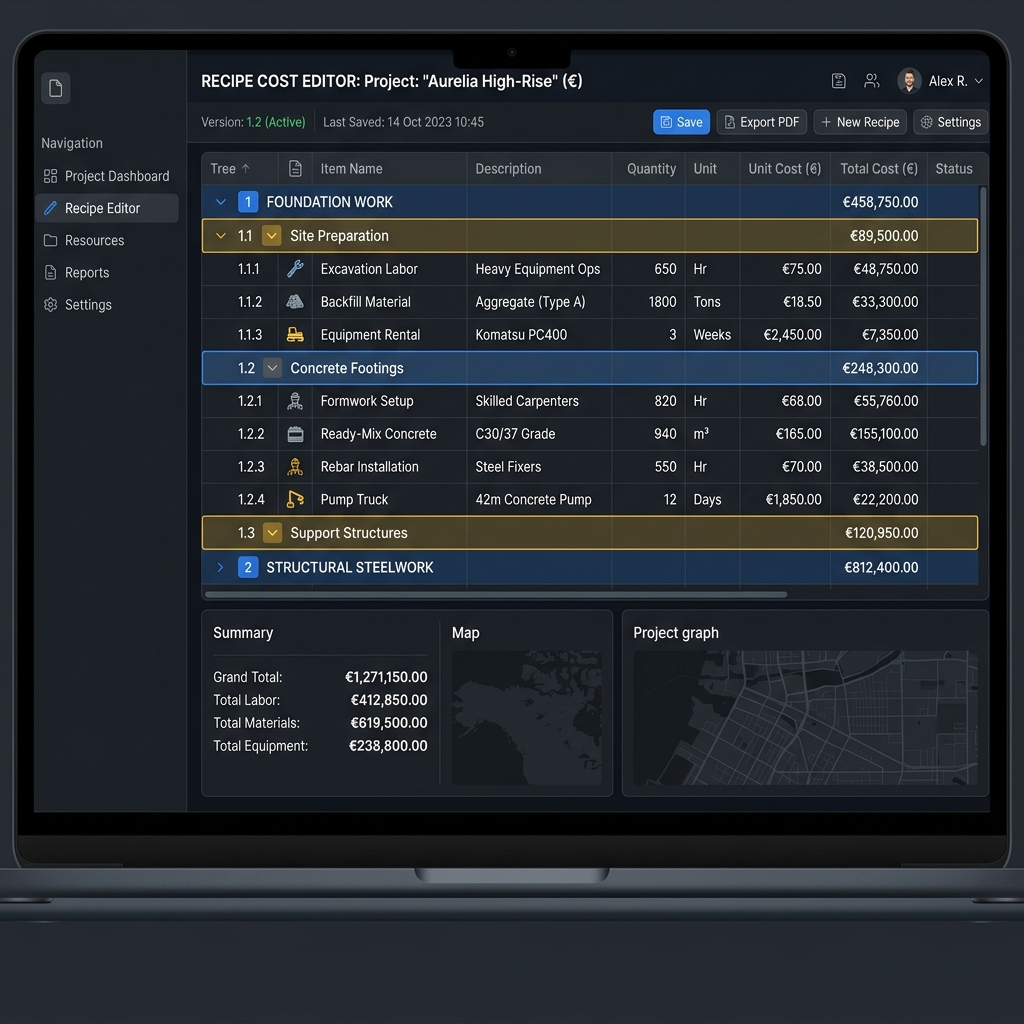
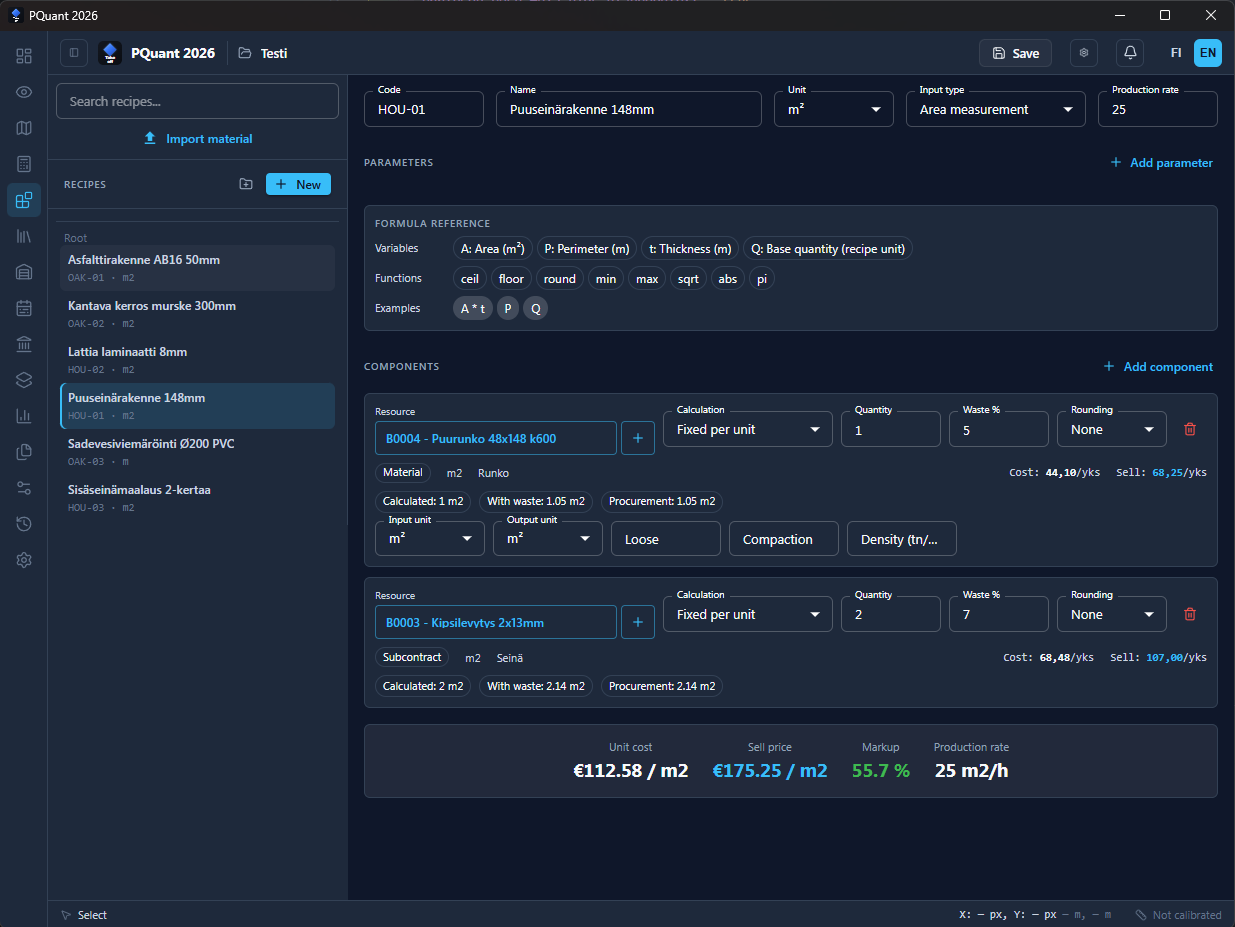
feat: add support for payment milestones, imperial units, and associated UI documentation

diff --git a/docs.html b/docs.html
@@ -41,13 +41,15 @@
     <aside class="docs-sidebar">
       <div class="docs-sidebar-title">User Guide</div>
       <nav class="docs-sidebar-menu">
-        <a href="#intro" class="docs-sidebar-link active">1. Intro & Installation</a>
+        <a href="#intro" class="docs-sidebar-link active">1. Intro &amp; Installation</a>
         <a href="#calibration" class="docs-sidebar-link">2. Scale Calibration</a>
-        <a href="#measure" class="docs-sidebar-link">3. Measuring & Snapping</a>
+        <a href="#measure" class="docs-sidebar-link">3. Measuring &amp; Snapping</a>
         <a href="#search" class="docs-sidebar-link">4. PDF Text Search</a>
-        <a href="#recipes" class="docs-sidebar-link">5. Recipe Engine & Formulas</a>
+        <a href="#recipes" class="docs-sidebar-link">5. Recipe Engine &amp; Formulas</a>
         <a href="#excel" class="docs-sidebar-link">6. Exporting to Excel</a>
         <a href="#collab" class="docs-sidebar-link">7. Collaboration &amp; Cloud Sync</a>
+        <a href="#milestones" class="docs-sidebar-link">8. Payment Milestones</a>
+        <a href="#settings" class="docs-sidebar-link">9. System Settings &amp; Units</a>
       </nav>
     </aside>
 
@@ -215,6 +217,53 @@
           <li><strong>Automated Project Checklist:</strong> The system automatically scans the database for missing fields, warning you about uncalibrated viewports, missing contract terms, or approaching bid deadlines.</li>
           <li><strong>Risk Registry:</strong> Log, categorize, and prioritize soil, contract, and schedule risks (Low, Medium, High) directly in the project file, ensuring the team prices the estimate with a full view of potential hazards.</li>
         </ul>
+      </section>
+
+      <!-- Payment Milestones -->
+      <section id="milestones" class="docs-section">
+        <h2>8. Payment Milestones &amp; Schedules</h2>
+        <p>After performing your quantity takeoff and creating a cost estimate, Takeoff allows you to plan and structure your contract payment milestones. This makes cash flow management straightforward and ties billable stages to actual project progress.</p>
+        
+        <h3>Defining &amp; Managing Milestones</h3>
+        <p>You can create and manage payment milestones directly within the Payment Schedule dashboard:</p>
+        <ul>
+          <li><strong>Name &amp; Description:</strong> Give each milestone a clear title (e.g., <i>"Foundations Poured"</i> or <i>"Framing Complete"</i>).</li>
+          <li><strong>Value or Percentage:</strong> Set the milestone's value either in currency or as a percentage of the total project contract. The software computes the corresponding amounts dynamically.</li>
+          <li><strong>Link to Takeoff Recipes:</strong> Bind milestones to specific estimated items, allowing milestone values to update automatically as your quantities and pricing refine.</li>
+        </ul>
+
+        <div class="feature-step-media" style="margin: 2rem 0;">
+          <img src="assets/Payment_milestones.png" alt="Payment Milestones Screen" style="width: 100%; border-radius: 8px;">
+        </div>
+
+        <h3>Progress Tracking &amp; Billing</h3>
+        <p>As work finishes on-site, mark the corresponding milestone as completed. This maintains an audit log of what has been invoiced and what remains, preventing payment disputes between clients and contractors.</p>
+      </section>
+
+      <!-- System Settings & Units -->
+      <section id="settings" class="docs-section">
+        <h2>9. System Settings &amp; Imperial Units</h2>
+        <p>Takeoff is a highly flexible estimator designed for both local work and international procurement. From the settings pane, you can customize your workspace rules to suit the project requirements.</p>
+
+        <h3>Unit System Selection (Metric vs. Imperial)</h3>
+        <p>If you estimate plans drawn in feet/inches or work for North American clients, toggle your project units to Imperial:</p>
+        <ul>
+          <li><strong>Metric Units:</strong> Meters (m), square meters (m²), cubic meters (m³), and millimeters (mm).</li>
+          <li><strong>Imperial Units:</strong> Feet (ft), inches (in), yards (yd), square feet (sq ft), and cubic feet (cu ft).</li>
+          <li><strong>Automatic Unit Conversion:</strong> Switching the unit system converts all previously drawn geometric shapes automatically. There is no need to redraw any polylines or polygons.</li>
+        </ul>
+
+        <div class="feature-step-media-grid" style="margin: 2rem 0;">
+          <div class="sub-media">
+            <img src="assets/settings.png" alt="Settings Window Screenshot">
+          </div>
+          <div class="sub-media">
+            <img src="assets/quantities.png" alt="Imperial Quantities Screenshot">
+          </div>
+        </div>
+
+        <h3>Decimal Precision &amp; Rounding</h3>
+        <p>Configure how many decimal places to display in your measurements. You can set independent rounding rules for lengths, areas, and volumes, ensuring your exported Excel spreadsheets stay clean and professional.</p>
       </section>
     </main>
   </div>

diff --git a/ohjeet.html b/ohjeet.html
@@ -41,13 +41,15 @@
     <aside class="docs-sidebar">
       <div class="docs-sidebar-title">Käyttöopas</div>
       <nav class="docs-sidebar-menu">
-        <a href="#johdanto" class="docs-sidebar-link active">1. Johdanto & Asennus</a>
+        <a href="#johdanto" class="docs-sidebar-link active">1. Johdanto &amp; Asennus</a>
         <a href="#kalibrointi" class="docs-sidebar-link">2. Mittakaavan kalibrointi</a>
-        <a href="#mittaus" class="docs-sidebar-link">3. Mittaus & Snappaus</a>
+        <a href="#mittaus" class="docs-sidebar-link">3. Mittaus &amp; Snappaus</a>
         <a href="#haku" class="docs-sidebar-link">4. PDF-tekstihaku</a>
-        <a href="#reseptit" class="docs-sidebar-link">5. Reseptimoottori & Kaavat</a>
+        <a href="#reseptit" class="docs-sidebar-link">5. Reseptimoottori &amp; Kaavat</a>
         <a href="#excel" class="docs-sidebar-link">6. Vienti Exceliin</a>
         <a href="#tiimityo" class="docs-sidebar-link">7. Tiimityö &amp; Pilvisynkronointi</a>
+        <a href="#maksuerat" class="docs-sidebar-link">8. Maksuerät &amp; Maksuerätaulukko</a>
+        <a href="#asetukset" class="docs-sidebar-link">9. Järjestelmäasetukset &amp; Yksiköt</a>
       </nav>
     </aside>
 
@@ -216,6 +218,53 @@
           <li><strong>Automaattinen tarkastuslista (Checklist):</strong> Järjestelmä käy projektin tiedot taustalla läpi ja varoittaa puuttuvista tiedoista (kuten kalibroimattomat piirustukset, puuttuvat sopimustiedot tai tarjouspyynnön umpeutuvat määräajat).</li>
           <li><strong>Riskirekisteri (Risk Registry):</strong> Voit kirjata ja luokittelua projektiin liittyvät maaperä-, sopimus- ja aikatauluriskit suoraan ohjelmaan vakavuustasoilla (Low, Medium, High). Tämä auttaa tiimiä varautumaan riskeihin kustannusarvion laadinnassa.</li>
         </ul>
+      </section>
+
+      <!-- Maksuerät -->
+      <section id="maksuerat" class="docs-section">
+        <h2>8. Maksuerät &amp; Maksuerätaulukko</h2>
+        <p>Määrälaskennan ja kustannusarvion luomisen jälkeen Takeoff mahdollistaa urakan maksuerätaulukon (Payment Milestones) automaattisen tai manuaalisen suunnittelun. Tämä helpottaa rahoituksen ja kassavirran hallintaa sekä maksujen sitomista projektin todellisiin vaiheisiin.</p>
+        
+        <h3>Maksuerien määrittäminen ja hallinta</h3>
+        <p>Voit luoda projekteille maksueriä suoraan maksuerätaulukkonäkymässä:</p>
+        <ul>
+          <li><strong>Nimi ja kuvaus:</strong> Anna maksuerälle selkeä nimi (esim. <i>"Perustukset valettu"</i> tai <i>"Runkovaihe valmis"</i>).</li>
+          <li><strong>Summa tai prosenttiosuus:</strong> Määritä maksuerän arvo joko suoraan euroina tai prosenttiosuutena projektin kokonaiskustannuksista. Ohjelma laskee vastaavat arvot lennosta.</li>
+          <li><strong>Maksupostien sitominen:</strong> Maksuerät voidaan sitoa tiettyihin suoritettuihin määriin tai resepteihin, jolloin niiden arvo päivittyy automaattisesti, kun arvio tarkentuu.</li>
+        </ul>
+
+        <div class="feature-step-media" style="margin: 2rem 0;">
+          <img src="assets/Payment_milestones.png" alt="Payment Milestones Screen" style="width: 100%; border-radius: 8px;">
+        </div>
+
+        <h3>Edistymisen seuranta ja laskutus</h3>
+        <p>Kun työvaihe valmistuu työmaalla, vastaava maksuerä voidaan merkitä valmiiksi. Tämä luo selkeän historian siitä, mitä on laskutettu ja mitä on vielä jäljellä, mikä ehkäisee epäselvyyksiä tilaajan ja urakoitsijan välillä.</p>
+      </section>
+
+      <!-- Asetukset ja mittayksiköt -->
+      <section id="asetukset" class="docs-section">
+        <h2>9. Järjestelmäasetukset &amp; Imperial-yksiköt</h2>
+        <p>Takeoff on joustava työkalu, joka soveltuu sekä kotimaisiin että kansainvälisiin projekteihin. Ohjelman asetuksista voit mukauttaa laskentaympäristön juuri omiin tarpeisiisi sopivaksi.</p>
+
+        <h3>Yksikköjärjestelmän valinta (Metric / Imperial)</h3>
+        <p>Jos teet urakkalaskentaa ulkomaisiin kohteisiin tai kuvissa käytetään tuumamittoja, voit vaihtaa yksikköjärjestelmän Imperial-tilaan:</p>
+        <ul>
+          <li><strong>Metriset yksiköt (Metric):</strong> Metri (m), neliömetri (m²), kuutiometri (m³) ja millimetri (mm).</li>
+          <li><strong>Imperial-yksiköt (Imperial):</strong> Jalka (ft), tuuma (in), jaardi (yd), neliöjalka (sq ft) ja kuutiojalka (cu ft).</li>
+          <li><strong>Automaattinen muunnos:</strong> Kun vaihdat yksikköjärjestelmää, ohjelma muuntaa aiemmin piirretyt geometriset mitat automaattisesti valitun yksikön mukaisiksi ilman, että sinun tarvitsee piirtää mittauksia uudelleen.</li>
+        </ul>
+
+        <div class="feature-step-media-grid" style="margin: 2rem 0;">
+          <div class="sub-media">
+            <img src="assets/settings.png" alt="Settings Window Screenshot">
+          </div>
+          <div class="sub-media">
+            <img src="assets/quantities.png" alt="Imperial Quantities Screenshot">
+          </div>
+        </div>
+
+        <h3>Pyöristyssäännöt ja desimaalit</h3>
+        <p>Asetuspaneelista voit myös määrittää, kuinka monta desimaalia mittauksissa ja määräluetteloissa näytetään. Voit säätää pituuksien, pinta-alojen ja tilavuuksien tarkkuutta erikseen, mikä pitää määräluettelot siisteinä ja ammattimaisina.</p>
       </section>
     </main>
   </div>

diff --git a/style.css b/style.css
@@ -499,6 +499,41 @@ img, video {
   border: 1px solid rgba(255, 255, 255, 0.05);
 }
 
+.feature-step-media-grid {
+  display: grid;
+  grid-template-columns: 1fr 1fr;
+  gap: 1.5rem;
+}
+
+.feature-step-media-grid .sub-media {
+  background-color: var(--bg-secondary);
+  border: 1px solid var(--border-color);
+  border-radius: 12px;
+  padding: 6px;
+  overflow: hidden;
+  box-shadow: 0 10px 30px rgba(0, 0, 0, 0.3);
+  transition: all var(--transition-normal);
+}
+
+.feature-step-media-grid .sub-media:hover {
+  border-color: var(--accent-blue);
+  transform: translateY(-2px);
+}
+
+.feature-step-media-grid .sub-media img {
+  border-radius: 8px;
+  border: 1px solid rgba(255, 255, 255, 0.05);
+  width: 100%;
+  height: auto;
+}
+
+@media (max-width: 768px) {
+  .feature-step-media-grid {
+    grid-template-columns: 1fr;
+    gap: 1rem;
+  }
+}
+
 /* MCP / AI Section */
 .mcp-section {
   background-color: var(--bg-secondary);

diff --git a/index.html b/index.html
@@ -137,7 +137,7 @@
           <!-- Step 2 -->
           <div class="feature-step" id="feature-step-2">
             <div class="feature-step-content">
-              <span class="feature-number">02</span>
+              <span class="feature-number" data-i18n="features.step2.num">02</span>
               <h3 data-i18n="features.step2.title">Reseptipohjainen kustannuslaskenta</h3>
               <p data-i18n="features.step2.desc">Yhdistä mitatut määrät valmiisiin tai omiin kustannusresepteihin (esim. materiaali + työ + kalusto). Kaavakone laskee loppusummat, menekit ja hävikit lennosta ilman virhealttiita manuaalisia laskutoimituksia.</p>
             </div>
@@ -149,12 +149,41 @@
           <!-- Step 3 -->
           <div class="feature-step" id="feature-step-3">
             <div class="feature-step-content">
-              <span class="feature-number">03</span>
+              <span class="feature-number" data-i18n="features.step3.num">03</span>
               <h3 data-i18n="features.step3.title">Puhdas ja avoin vienti Exceliin</h3>
               <p data-i18n="features.step3.desc">Ei lukittuja tai sotkuisia PDF-raportteja. Vie koko määräluettelo ja kustannusarvio Exceliin (.xlsx) yhdellä klikkauksella. Solut ja kaavat säilyvät täysin muokattavassa muodossa omia jatkokäsittelyjä varten.</p>
             </div>
             <div class="feature-step-media">
               <img src="assets/excel_ui.png" alt="Excel Spreadsheet Export Preview" id="feature-img-3" loading="lazy">
+            </div>
+          </div>
+
+          <!-- Step 4 -->
+          <div class="feature-step" id="feature-step-4">
+            <div class="feature-step-content">
+              <span class="feature-number" data-i18n="features.step4.num">04</span>
+              <h3 data-i18n="features.step4.title">Maksuerätaulukko &amp; maksupostit</h3>
+              <p data-i18n="features.step4.desc">Jaa projektin kustannusarvio selkeiksi maksueriksi ja maksu-milestoneiksi. Ohjelma auttaa luomaan ja hallitsemaan urakan maksuerätaulukkoa automaattisesti työn edistymisen tai valittujen resepteistä tulevien kustannuserien mukaan.</p>
+            </div>
+            <div class="feature-step-media">
+              <img src="assets/Payment_milestones.png" alt="Payment Milestones and Schedules" id="feature-img-4" loading="lazy">
+            </div>
+          </div>
+
+          <!-- Step 5 -->
+          <div class="feature-step" id="feature-step-5">
+            <div class="feature-step-content">
+              <span class="feature-number" data-i18n="features.step5.num">05</span>
+              <h3 data-i18n="features.step5.title">Imperial-mittaukset &amp; joustavat asetukset</h3>
+              <p data-i18n="features.step5.desc">Tee mittauksia sekä metrisillä yksiköillä että imperial-järjestelmällä (tuumat, jalat, jaardit, neliöjalat). Voit säätää desimaalitarkkuuksia ja yksiköitä joustavasti projektin ja piirustuksen vaatimusten mukaan.</p>
+            </div>
+            <div class="feature-step-media-grid">
+              <div class="sub-media">
+                <img src="assets/settings.png" alt="Settings configuration for units" id="feature-img-5a" loading="lazy">
+              </div>
+              <div class="sub-media">
+                <img src="assets/quantities.png" alt="Quantities list with imperial units" id="feature-img-5b" loading="lazy">
+              </div>
             </div>
           </div>
         </div>

diff --git a/translations.js b/translations.js
@@ -44,6 +44,12 @@ window.translations = {
     "features.step3.num": "03",
     "features.step3.title": "Puhdas ja avoin vienti Exceliin",
     "features.step3.desc": "Ei lukittuja tai sotkuisia PDF-raportteja. Vie koko määräluettelo ja kustannusarvio Exceliin (.xlsx) yhdellä klikkauksella. Solut ja kaavat säilyvät täysin muokattavassa muodossa omia jatkokäsittelyjä varten.",
+    "features.step4.num": "04",
+    "features.step4.title": "Maksuerätaulukko & maksupostit",
+    "features.step4.desc": "Jaa projektin kustannusarvio selkeiksi maksueriksi ja maksu-milestoneiksi. Ohjelma auttaa luomaan ja hallitsemaan urakan maksuerätaulukkoa automaattisesti työn edistymisen tai valittujen resepteistä tulevien kustannuserien mukaan.",
+    "features.step5.num": "05",
+    "features.step5.title": "Imperial-mittaukset & joustavat asetukset",
+    "features.step5.desc": "Tee mittauksia sekä metrisillä yksiköillä että imperial-järjestelmällä (tuumat, jalat, jaardit, neliöjalat). Voit säätää desimaalitarkkuuksia ja yksiköitä joustavasti projektin ja piirustuksen vaatimusten mukaan.",
 
     // MCP / AI-Ready
     "mcp.title": "AI-Ready — Avoin MCP-tuki edelläkävijöille",
@@ -177,6 +183,12 @@ window.translations = {
     "features.step3.num": "03",
     "features.step3.title": "Clean & Open Excel Export",
     "features.step3.desc": "No locked or messy PDF reports. Export your entire bill of quantities and estimate to Excel (.xlsx) with a single click. Formulas and cells remain fully editable for your own downstream processing.",
+    "features.step4.num": "04",
+    "features.step4.title": "Payment Milestones & Schedules",
+    "features.step4.desc": "Structure your project estimate into clear payment milestones. The software helps you automatically generate and manage payment schedules based on work progress or specific cost groups directly from your recipes.",
+    "features.step5.num": "05",
+    "features.step5.title": "Imperial Measurements & Flexible Units",
+    "features.step5.desc": "Perform quantity takeoffs using either metric or imperial systems (feet, inches, yards, square feet). Customize decimal precision and unit configurations dynamically based on your drawing settings.",
 
     // MCP / AI-Ready
     "mcp.title": "AI-Ready — Open MCP Support for Innovators",